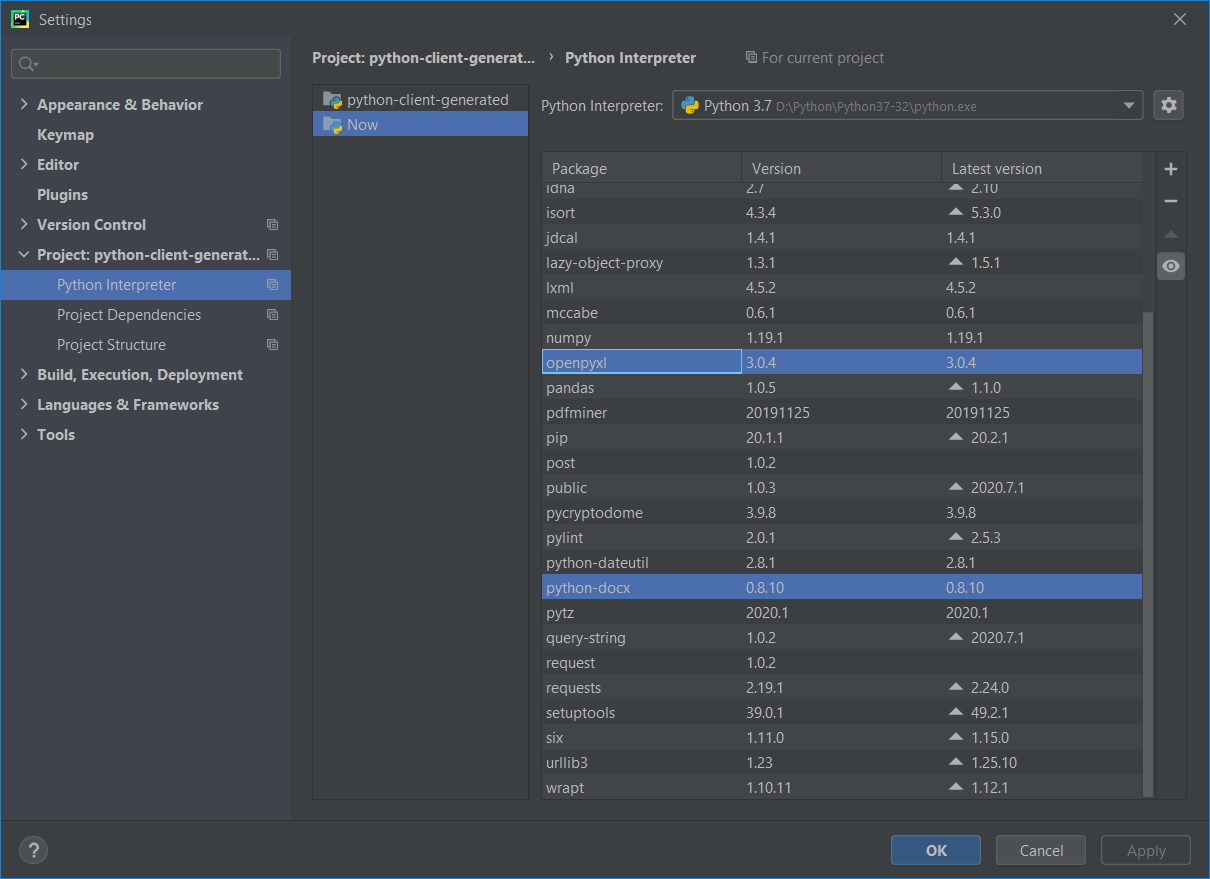
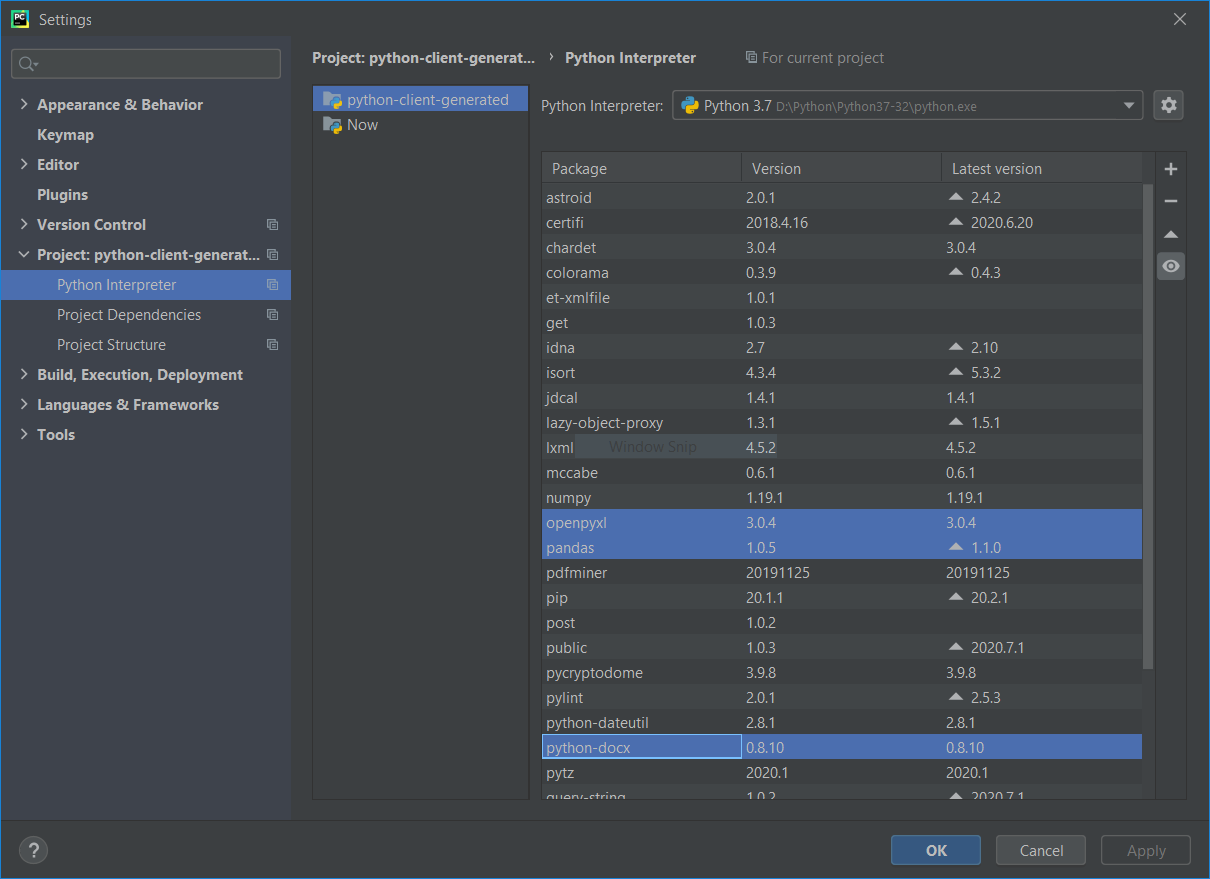
Added link for pandas and library image changed.

diff --git a/booksonline/topic_11.html b/booksonline/topic_11.html
@@ -149,6 +149,8 @@ The <b>openpyxl</b> library is downloaded from <a href="https://pypi.org/project
 To read the Word document and extract related Objects defined in Framework Settings, <b>python-docx</b> library is used.<br><br>
 The <b>python-docx</b> library is downloaded from <a href="https://pypi.org/project/python-docx/" target="_blank">here</a><br><br>
 
+To read Tabuler data from Office Document, <a href="https://pandas.pydata.org/" target="_blank"><b>python pandas</b></a>  library is used.<br><br>
+
 Following image shows the downloaded python libraries in Pycharm Settings window: <br><br>
 
 <img src="./images/topic_11_5.png"/><br><br>
